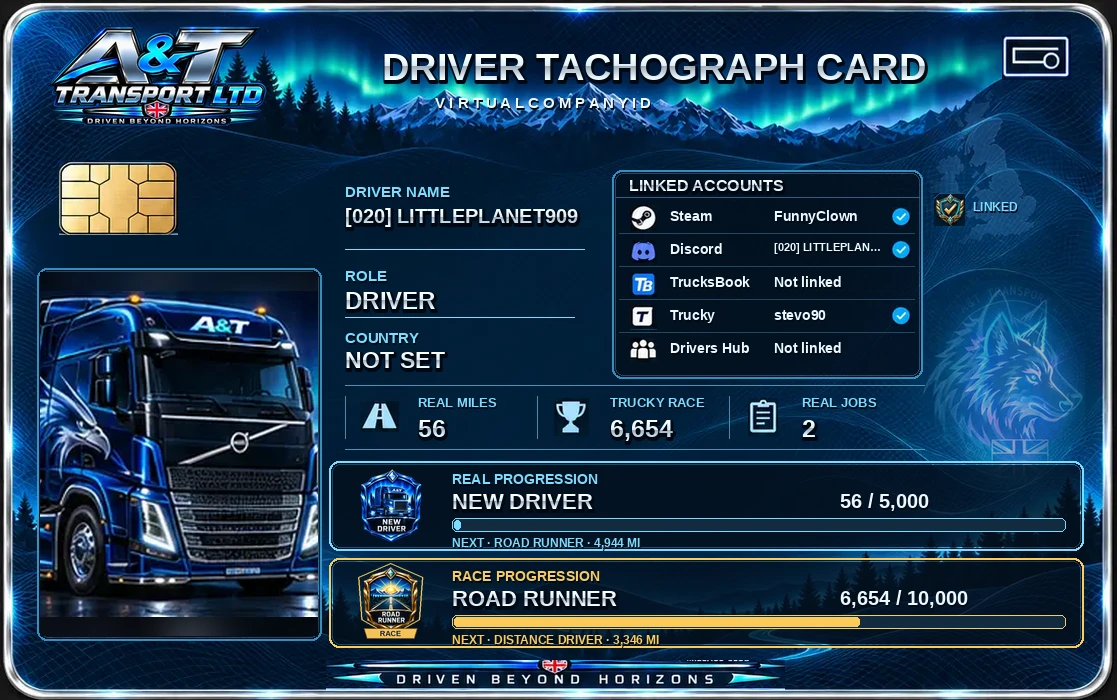
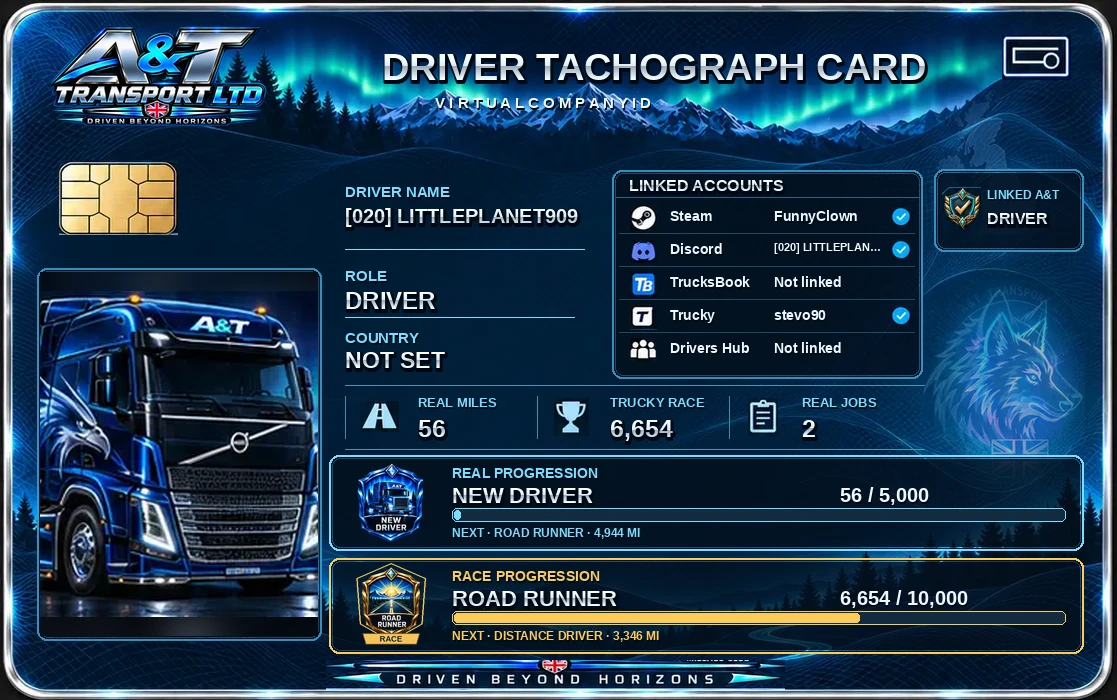
Tidy driver status panel and dual progression spacing

Changed region(s): [[0.3044, 0.63, 0.974, 0.78], [0.2739, 0.81, 0.974, 0.96], [0.8218, 0.24, 0.974, 0.36]]

diff --git a/tachograph.py b/tachograph.py
@@ -286,7 +286,7 @@ def render(name, profile, prefs, side="front", role="DRIVER"):
             return
         maker = race_badge if race else badge
         image(maker(track["current"], False), (x+7, y+5, badge_width, bottom-y-10))
-        text(label_x, y+10, track_label + (" · " if compact else " PROGRESSION"),
+        text(label_x, y+10, track_label + (" MILEAGE" if compact else " PROGRESSION"),
              12 if compact else 14, accent, width=content_right-label_x)
         metal(label_x, y+28, track["name"], 17 if compact else 22,
               width=content_right-label_x-(0 if compact else 230))
@@ -296,7 +296,7 @@ def render(name, profile, prefs, side="front", role="DRIVER"):
             text(label_x, y+48, target, 15, WHITE, width=content_right-label_x)
         else:
             text(content_right-225, y+28, target, 20, WHITE, width=225)
-        bar_y = y+69 if compact else y+57
+        bar_y = y+69 if compact else y+53
         width = content_right-label_x
         draw.rounded_rectangle((label_x,bar_y,content_right,bar_y+13),5,
                                fill="#132b3d",outline=accent,width=1)
@@ -385,10 +385,12 @@ def render(name, profile, prefs, side="front", role="DRIVER"):
             text(x+58,395,label,13,CYAN,width=130)
             metal(x+58,414,value,25,width=126)
             draw.line((x-15,396,x-15,438),fill="#4789a7",width=1)
-        track_row((329,461,1083,550), real_track)
-        track_row((329,558,1083,647), race_track, race=True)
-        detail("verified-driver-shield",(934,192,31,35))
-        text(973,200,"LINKED",12,CYAN,width=100)
+        track_row((329,455,1083,550), real_track)
+        track_row((329,558,1083,653), race_track, race=True)
+        panel((934,169,1083,251))
+        detail("verified-driver-shield",(942,184,39,48))
+        text(987,188,"LINKED A&T",12,CYAN,width=87)
+        metal(987,209,"DRIVER",16,width=87)
     else:
         asset(ART/"company-logo.webp",(30,16,250,100))
         metal(330,40,"DRIVER CAREER RECORD",33,width=644)
@@ -461,15 +463,15 @@ def render(name, profile, prefs, side="front", role="DRIVER"):
                                        outline=CYAN if real_current else AMBER,width=2)
             earned_real = real >= miles
             earned_race = race_track is not None and race_track["miles"] >= miles
-            if earned_race and not earned_real:
+            if earned_race and (race_current or not earned_real):
                 image(race_badge(miles),(x+3,y+3,80,87))
             else:
                 image(badge(miles,not earned_real),(x+3,y+3,80,87))
             centred_metal(x+1,y+91,threshold_key(miles).upper(),15,84)
             if real_current:
-                draw.polygon(((x+20,y+111),(x+14,y+116),(x+26,y+116)),fill=CYAN)
+                draw.rounded_rectangle((x+9,y+108,x+38,y+111),1,fill=CYAN)
             if race_current:
-                draw.polygon(((x+65,y+111),(x+59,y+116),(x+71,y+116)),fill=AMBER)
+                draw.rounded_rectangle((x+48,y+108,x+77,y+111),1,fill=AMBER)
         detail("footer-back",(273,660,566,30))
     if side == "front":
         detail("footer-front",(273,660,566,30))
